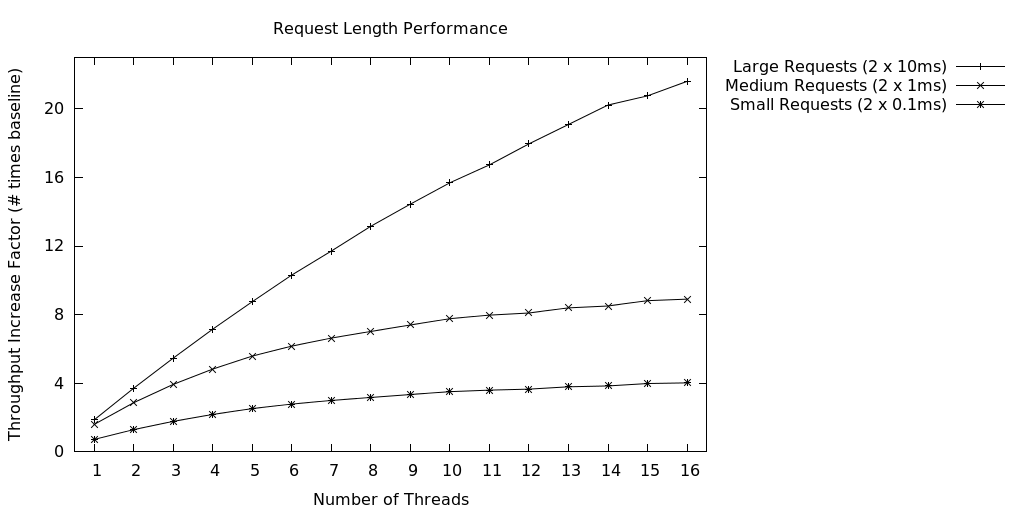
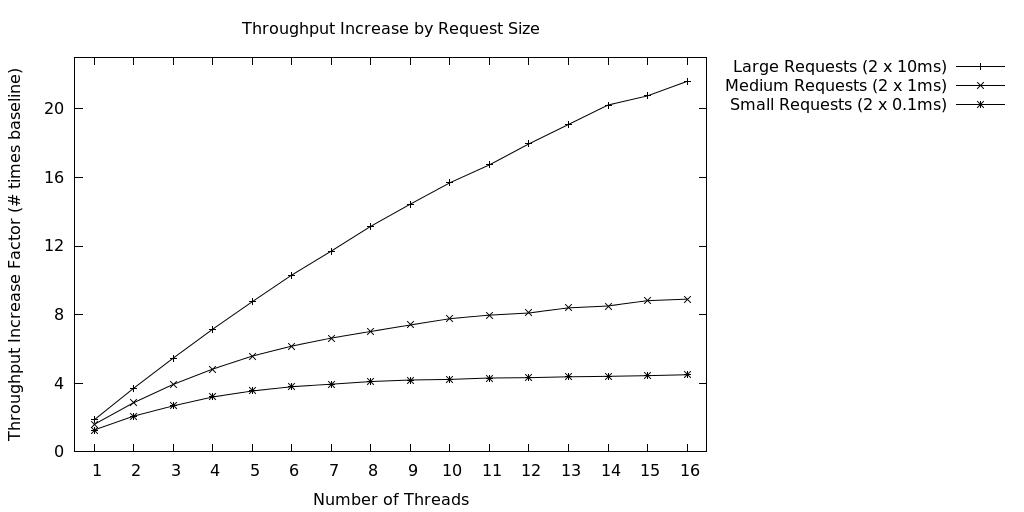
Initial graphs done, work on bibliography, more proofreading

Changed region(s): [[0.0938, 0.7188, 0.6875, 0.875], [0.2188, 0.0312, 0.5312, 0.0938]]

diff --git a/main.tex b/main.tex
@@ -18,26 +18,26 @@
 
 \chapter{Introduction}\label{Introduction}
 Computing systems today are rarely self-contained units. 
-The desire for more levels of abstraction and cleaner separation of responsibilities has led to systems being modularized into services that must communicate and work together to accomplish tasks. 
+The desire for more levels of abstraction and cleaner separations of responsibilities has led to systems being modularized into services that must communicate and work together to accomplish tasks. 
 Not only is this separation observed within single systems, but also in systems that interact with external services such as cloud based storage or computing providers. 
-In this paper we will present a way to build these systems in a highly available way by leveraging existing techniques such as the replicated state machine abstraction.
+In this paper we will present a way to build these systems in a highly available and fault tolerant way by building upon existing techniques such as the replicated state machine abstraction.
 
-Unfortunately, the replicated state machine abstraction as it exists today is not immediately fit for this multiple service environment. 
-Previous work on the RSM abstraction has focused on the client-server model, where the RSM behaves as a single-correct-server from the perspective of the client and nothing else. 
+Unfortunately, the replicated state machine abstraction as it exists today is not immediately fit for this communicating service environment. 
+Previous work on the RSM abstraction has focused on the client-server model, where the RSM behaves as a single-correct-server from the perspective of the clients making requests. 
 This behavior does not allow these systems to communicate with other services because doing so could expose the intermediate state of the system which is not guaranteed to be consistent in this abstraction.
 
 Aside from consistency issues, a traditional RSM abstraction would also suffer from fundamental performance deficiencies in this environment. 
-Most replication protocols rely on the sequential execution of commands to guarantee that replicas operate in a deterministic manner. 
+Many replication protocols rely on the sequential execution of commands to guarantee that replicas operate in a deterministic manner \cite{practicalBFT, upRight, hq, paxos}. 
 Not only does sequential execution do a poor job of leveraging abundantly available multicore machines, it also requires that a system in this environment remain idle while waiting for the response from a command issued to another service.
 
 In this paper, we will present a technique to adapt the replicated state machine abstraction to the environment described above. 
-We will first leverage recent work on multi-threaded speculative execution to allow our system to better utilize the multicore nature of machines today. 
+We will first leverage speculative execution \cite{eve, zyz} to allow our system to be multi-threaded and therefore better utilize the multicore nature of machines today. 
 In addition, we will show how to pipeline a system using speculative execution to mitigate the blocking of the system while waiting for the response of communications it may perform. 
 This work builds on operations originally made by the Laboratory for Advanced Systems Research at UT and was a joint effort between myself and Jim Given. 
 I highly recommend reading Jim’s thesis on this same work to get the complete understanding of this project.
 
 The rest of this paper is structured as follows. 
-Chapter \ref{Background} will provide a comprehensive background on the replicated state machine abstraction and the Eve system, which pioneered the use of speculative execution within a RSM. 
+Chapter \ref{Background} will provide a comprehensive background on the replicated state machine abstraction and the Eve system, which pioneered the use of multi-threaded speculative execution within a RSM. 
 Chapter \ref{Adam} will introduce Adam, a system to provide high availability in an environment with services that communicate not only with clients, but also with other services. 
 Chapter \ref{AdamDesign} will describe at a high level the design and benefits of pipelining in Adam. 
 Chapter \ref{AdamImplementation} will explore our implementation of Adam in detail along with the correctness guarantees Adam provides. 
@@ -63,7 +63,7 @@ For a weaker failure model, one only needs to either increase the number of repl
 In order to provide correctness, the requirement of SMR is that the observable state (including but not limited to the outputs) of each state machine must always be the same across all replicas. 
 This is simply because if all replicas have the same observable state, any replica on its own could communicate with clients if another crashed.
 
-To provide this correctness requirement, SMR has traditionally been implemented by only allowing sequential execution of commands. 
+To provide this correctness requirement, SMR has traditionally been implemented by only allowing sequential execution of commands \cite{schneider}. 
 The reason behind this is that if commands are first ordered the same way on each replica, and are then executed one at a time in this deterministic way, then all replicas will arrive at the same state. 
 This is easy to see because each state machine simply follows the exact same state transitions in the same order. 
 This design is referred to as the agree-execute approach, and has been applied in a wide range of systems including the original Paxos protocol.
@@ -71,7 +71,7 @@ This design is referred to as the agree-execute approach, and has been applied i
 Sequential execution was an acceptable option when SMR was first introduced since single core performance was rapidly increasing. 
 Now that the world has instead shifted to increasing the amount of parallelism to improve performance, we find that sequential execution is a serious limitation. 
 If we tried to naively relax this sequential execution restriction and run commands using multiple threads, there would be no guarantee that the replicas would arrive in the same final state since the commands could be interleaved across the threads. 
-In the next section, we will see one way that we can still provide the replicated state machine abstraction without the need for this sequential execution restriction. 
+In the next section, we will see one way that we can still provide the replicated state machine abstraction without sequential execution by using speculative execution instead. 
  
 
 \section{Eve: Execute-Verify Replication}
@@ -79,7 +79,7 @@ In the next section, we will see one way that we can still provide the replicate
 In the previous section, we explored how the majority of SMR implementations relied on the agree-execute architecture to ensure that replicas converged to the same ending state. 
 This approach guarantees convergence through determinism and sequential execution. 
 One observation that can be made about these approaches is that they have effectively reduced the actual safety requirement of SMR (that the observable state of each state machine is the same across all replicas) to the problem of guaranteeing that all replicas agree on an order of commands to execute. 
-Eve is a system that was developed at the University of Texas at Austin that uses the real safety requirement of SMR to enable multi-threaded execution.
+Eve is a system that was developed at the University of Texas at Austin that uses the real safety requirement of SMR to enable multi-threaded execution \cite{eve, manosThesis}.
 
 Eve uses what is referred to as speculative execution in a way that provides the safety guarantee of SMR while still providing liveness to form a correct replicated state machine abstraction. 
 In Eve, replicas are given a set, or batch, of requests to execute from the primary, however they are not required to agree on an order in which to execute them. 
@@ -145,13 +145,13 @@ In Remus, the primary replica executes requests with multiple threads and then t
 This approach, referred to as passive replication, both requires considerably more bandwidth (due to the transfer of full states) and does not protect against commission failures, while Eve does. 
 Eve was shown to outperform Remus by a factor of 4.7x while using orders of magnitude less network bandwidth in the authors' tests.
 
-\chapter{Adam: State Machine Replication with Interacting Services}\label{Adam}
+\chapter{Adam: State Machine Replication with Communicating Services}\label{Adam}
 
 In the last chapter we saw that the replicated state machine abstraction can be used with in a parallel environment with serious performance improvements in terms of request throughput. 
 Systems today are rarely well described by the simple client-server model.
 Instead, most services need to interact with other services while processing a request from a client. 
 
-For example, if a client visits the website Dropbox.com, the server handling the client's request needs to make what we will refer to as a ``nested request'' to a separate service. This nested request functions to retrieve the names of the client's files, before sending the contents of the webpage back to the client. Figure \ref{anatomy} shows the anatomy of a client request that we will be considering for the for the rest of this paper. In the figure, you can think of the local computation as the time that the webserver spends rendering the HTML to return and the remote computation as the remote service loading the user's files for this example.
+For example, if a client visits a cloud file storage website \cite{dropbox}, the server handling the client's request needs to make what we will refer to as a ``nested request'' to a separate service. This nested request functions to retrieve the names of the client's files, before sending the contents of the webpage back to the client. Figure \ref{anatomy} shows the anatomy of a client request that we will be considering for the for the rest of this paper. In the figure, you can think of the local computation as the time that the webserver spends rendering the HTML to return and the remote computation as the remote service loading the user's files for this example.
 
 \begin{figure}[h]
 \centering
@@ -162,9 +162,19 @@ For example, if a client visits the website Dropbox.com, the server handling the
 Eve's approach to multi-threaded SMR successfully leverages the multicore nature of today's machines, but it is not immediately clear how to extend such a system to allow for replicated services to communicate. 
 In this chapter, we will explore the previous work that was performed to convert the Eve system to work in this new environment: one where servers not only expose their states to clients, but also to other services through nested requests.
 
+\section{System Model}
+We will assume a system model similar to that of Eve. 
+Adam requires periods of synchrony in an asynchronous environment to guarantee liveness. 
+In these periods of synchrony we will assume that messages sent between two correct processes are delivered within a bounded time. 
+Outside of these periods, Adam tolerates arbitrary network delays and lost messages without violating safety.
+
+The Adam prototypes described in this paper can be independently configured with their own fault tolerance parameters. 
+Just as in the UpRight system \cite{upRight}, Adam is guaranteed to be able to respond to clients in the presence of at most $u$ failures (commission or omission) and is guaranteed that any response sent to a correct client in the presence of up to $r$ commission failures and any number of omission failures. 
+Like in Eve and previous work on Adam, we will assume that no failures in the system can break cryptographic primitives and thereby be able to forge a correct node's MAC \cite{eve, manosThesis}.
+
 \section{Initial Approaches}
 
-Before describing Adam, it is important to understand why speculative execution approaches such as Eve do not work in this environment with communicated services. 
+Before describing Adam, it is important to understand why speculative execution approaches such as Eve do not work in this environment with communicating services. 
 Consider a service $A$ that is using Eve and is processing client requests. 
 While processing some of the client requests service $A$ receives, it must make a call to service $B$. 
 Now suppose that due to the speculative nature of Eve, too many replicas diverge while processing this client request. In Eve, this causes all replicas to rollback to their state before they began processing the client requests and try again in a sequential manner. 
@@ -236,13 +246,13 @@ In figure \ref{seqpipe} you can see the execution of $12$ client requests in a s
 \section{Initial Results}
 
 The initial findings in terms of the performance gain that applying speculative execution had over a naive sequential implementation were quite promising. 
-In Kapritsos' doctoral defense, he reported that the throughput of this speculative executing Adam system steadily increased with the number of cores according to the benchmarks that he ran. 
+In Kapritsos' doctoral defense, he reported that the throughput of this speculative executing Adam system steadily increased with the number of cores according to the benchmarks that he ran \cite{manosThesis}. 
 Even though the throughput increased, it did not seem to be scaling particularly linearly with the number of cores. 
-Servers with 16 cores running 16 execution threads in this implementation of Adam only had about 4x the throughput of the same servers running with a single thread each.
+Servers with 16 cores running 16 execution threads in this implementation of Adam only had about 4 times the throughput of the same servers running with a single thread each.
 
 The single-threaded pipelining technique described above also showed great potential. 
-For very short client requests (0.1ms each), the service managed to achieve even more than the expected 2x performance gain, probably due to the remote service batching requests creating what acted in practice like an additional pipeline stage. 
-For requests that took longer to process (1-10ms each) however, the system successfully achieved an approximately 2x throughput increase due to the 2 stage nature of the pipeline: the first being the local computation and the second being the computation on the remote service.
+For very short client requests (0.1ms each), the service managed to achieve even more than the expected double throughput gain, probably due to the remote service batching requests creating what acted in practice like an additional pipeline stage. 
+For requests that took longer to process (1-10ms each) however, the system successfully achieved an approximately double throughput increase due to the two stage nature of the pipeline: the first being the local computation and the second being the computation on the remote service.
 
 \chapter{Multi-Threaded Pipelining in Adam}\label{AdamDesign}
 
@@ -265,21 +275,21 @@ In order to better understand our approach to combining these techniques, let us
 Figure \ref{parpipe} shows what an execution of $12$ client requests would look like in our multi-threaded and pipelined system with two groups of two execution threads each. 
 Notice that only one group is performing local computation at a time (the dark rectangles) but multiple threads within a group are running simultaneously.
 Also notice that the full execution of all $12$ client requests requires only seven of the same time slices used in the other diagrams.
-This abstraction does not however effect the total number of checkpoints that must be performed (seven) from the original multi-threaded approach.
+This abstraction does not however affect the total number of checkpoints that must be performed (seven) from the original multi-threaded approach.
 
 At a very high level, our approach was to adapt the existing single-threaded pipelining code to have it schedule groups of threads to run in the pipeline instead of a single thread. 
 To manage each group of threads, we adapted the existing multi-threaded non-pipelined Adam code to allow it to behave within this pipelined environment. 
-The following chapter will explain at length the steps we took to convert the existing code we started with, as well as the new code we had to write to make this idea a reality.
+This chapter will explain at length the steps we took to convert the existing code we started with, as well as the new code we had to write to make this idea a reality.
 
 \section{Theoretical Benefits}
 
 By combining both pipelining and multi-threading, we expected our speedups over a naive replicated state machine in this system model to both scale linearly with the number of threads we were using as well as double because of the two stage pipeline. 
-In total this meant that with the 16 core machines we had available to test with, we hoped to see approximately a 32x throughput improvement in our microbenchmarks. 
+In total this meant that with the 16 core machines we had available to test with, we hoped to see approximately 32 times the throughput of a naive sequential implementation in our microbenchmarks. 
 
-The figure \ref{parpipe} shows the improvement that we would general expect by using just two execution cores (because only two threads are ever running locally at a time.
-We would expect a 2x throughput increase from using two threads concurrently as well as approximately a 2x throughput increase from the two stage pipeline for about a 4x improvement overall.
+The figure \ref{parpipe} is an example the improvement that we would general expect by using just two execution cores (because only two threads are ever running locally at a time) one a batch of $12$ request.
+We would expect a doubled throughput increase from using two threads concurrently as well as approximately a doubled throughput increase from the two stage pipeline for about a quadrupled throughput amount overall.
 
-Visually, you can see this exemplified in the number of slices in each diagram. 
+Visually, you can see this exemplified by the number of time slices in each diagram of this paper.
 The naive sequential implementation (Figure \ref{NaiveSequential}) required $24$ time slices while the execution in our system required only $7$.
 
 \begin{align*}
@@ -287,7 +297,7 @@ The naive sequential implementation (Figure \ref{NaiveSequential}) required $24$
 \end{align*}
 
 This number actually converges to $4$ as the number of requests run in each batch increases to infinity.
-A formal proof of this fact is available in Jim Given's thesis but conceptually you can see that the larger the number of requests that each thread must execute, the less that the ``unmatched'' slices at the beginning and the end of the batch matter. 
+A formal proof of this fact is available in Jim Given's thesis but conceptually you can see that the larger the number of requests that each thread must execute, the less that the ``unmatched'' slices at the beginning and the end of the batch contribute. 
 If the diagrams instead showed batches of $24$ requests each, the naive implementation would require $48$ time slices ($24$ requests $\cdot \ 2$ slices / request $=\ 48$).
 Our pipelined implementation would require only $13$ slices: $24$ requests / $4$ threads $ = 6$ requests / thread $\cdot \ 2$ slices / request $ = 12$ slices $ + 1$ extra slice of time for the first two threads at the end of the batch. 
 
@@ -304,8 +314,8 @@ Before explaining the work that we did to create a pipelined SMR system that use
 
 \subsection{Existing Multi-Threaded Adam Implementation}\label{BM}
 
-The existing multi-threaded Adam implementation we started with was a modification to the existing Eve code that allowed the code to perform nested requests. 
-Some of the core changes involved the use of Apache's Commons Javaflow library to easily allow execution threads to rollback their state to a checkpoint, even if they are currently in the middle of executing. 
+The existing multi-threaded Adam implementation we started with was a modification to the existing Eve \cite{eve} code that allowed the code to perform nested requests. 
+Some of the core changes involved the use of Apache's Commons Javaflow library \cite{javaflow} to easily allow execution threads to rollback their state to a checkpoint, even if they are currently in the middle of executing. 
 The other modifications to Eve involved adding support for multiple checkpoints taken per batch, one after every time the execution threads ``hit a wall'', meaning that all currently active execution threads were either finished with the entire batch of requests or were ready to make a nested request.
 
 Execution threads were controlled in this implementation by the Batch Manager (BM) which handled the logic of making sure all threads had ``hit a wall'' and initiated the checkpoint operation for each execution thread. 
@@ -314,7 +324,7 @@ When we received the code however, this work was largely not finished as the exi
 
 \subsection{Sequential Pipeline Manager}\label{SPM}
 
-The Sequential Pipeline Manager (SPM) was first implemented by Manos Kapritsos to demonstrate that the single-threaded pipelining approach had promise in this system model. 
+The Sequential Pipeline Manager (SPM) was first implemented by Manos to demonstrate that the single-threaded pipelining approach had promise in this system model. 
 The SPM in particular was the part of the system that controlled what execution thread was currently running and handled scheduling the next thread when the running thread desired to yield.
 This meant that the SPM was also responsible for enforcing the condition that only one execution was running at any point in time and that all execution was deterministic.
 This code was very straightforward but it served as the inspiration for the pipeline manager that we built later to schedule groups of threads.
@@ -403,13 +413,13 @@ If it is the later, rollback is trivial, we simply must throw away all work perf
 This deterministic execution can even be performed in a sequential pipelined manner to achieve better performance than a naive sequential approach.
 
 If instead we rollback to right before the threads in a group make a nested request, our system must restore the state of all execution threads to the state they had before making these requests and switch into a sequential deterministic mode to ensure progress and convergence. 
-We use Apache's Commons Javaflow library, specifically the Continuations objects in this library, to keep track of the stack of each execution thread.
+We use Apache's Commons Javaflow library \cite{javaflow}, specifically the Continuations objects in this library, to keep track of the stack of each execution thread.
 This allows us to restore this stack and guarantee that all execution threads are in the exact state they were in right before they made their nested request on each replica. 
 These Continuation objects with the stack of each thread are stored in the same Merkle tree data structure that Eve used which allows the replicas to make sure that they also have the same recorded stacks for each execution thread whenever a verification is performed. 
 This also allows replicas to receive continuations in a state transfer and immediately start the execution threads at the same point in the execution. 
 
 After performing a rollback in the non-trivial case, the threads in the now current group will either re-execute their nested request (if a response was never received) or will read the result from a cache if a response was received.
-Since we know that all execution threads were in the same state before making this request, we know that the request that each thread makes must be exactly the same, thereby eliminating the issue that Eve has in this environment with making requests that can never be repeated after rolling back.
+Since we know that all execution threads were in the same state before making this request, we know that the request that each thread makes must be exactly the same, thereby eliminating the issue that Eve has in this environment with making requests that might never be repeated after rolling back.
 
 \section{Future Work}
 
@@ -469,7 +479,7 @@ This could be achieved through better detection of new objects in the replica th
 
 We also compared our Adam implementation head to head with the previous two approaches described in Chapter \ref{Adam} as well as a naive sequential implementation. 
 Figure \ref{head2head} shows latency throughput graphs for our implementation running with three groups of eight threads each in a fully replicated environment. 
-We compare our implementation in this graph to the multithreaded but non-pipelined approach running with 8 threads, and with the sequential-pipelined approach running with three threads (which is equivalent to our implementation using three groups) as well as the naive sequential implementation. 
+We compare our implementation in this graph to the multi-threaded but non-pipelined approach running with 8 threads, and with the sequential-pipelined approach running with three threads (which is equivalent to our implementation using three groups) as well as the naive sequential implementation. 
 
 It can be seen from the graph that the naive sequential implementation achieves nearly $50$ requests per second which is the theoretical maximum throughput for $20$ms requests ($10$ms for the local and $10$ms remote computation). 
 The sequential pipelined approach approaches twice the performance of the naive implementation, once again due to the fact that the pipeline is of depth two (the local service and the remote service). 
@@ -492,13 +502,17 @@ This work built off of existing work from the University of Texas at Austin Labo
 
 \chapter{Conclusion}\label{Conclusion}
 
-Traditional approaches to state machine replication have used deterministic single-threaded execution to guarantee that replicas agree on the same final state. Although these approaches are straightforward, they fail to take advantage of the multicore nature of today's machines. In addition, these approaches are ill-suited to an environment with communicating services. This is because communication with other services requires a sequential execution thread to block while waiting for a response. 
-Newer techniques such as the Eve protocol \cite{EvePaper} have leveraged speculative execution to allow for the replicated state machine abstraction to be multi-threaded.
+Traditional approaches to state machine replication have used deterministic single-threaded execution to guarantee that replicas agree on the same final state. Although these approaches are straightforward, they fail to take advantage of the multicore nature of today's machines. 
+In addition, these approaches are ill-suited to an environment with communicating services. This is because communication with other services requires a sequential execution thread to block while waiting for a response. 
+
+Newer techniques such as the Eve protocol \cite{eve} have leveraged speculative execution to allow for the replicated state machine abstraction to be multi-threaded.
 Even systems like Eve however do not immediately perform well in an environment with communicating services and known pipelining techniques can be effectively used to improve performance.
 We have presented a novel approach to providing the replicated state machine abstraction in an environment with communicating services that leverages both the multicore nature of today's machines and pipelining techniques to improve resource utilization. 
 
-% Have a paragraph with final results or something here
-We found through the use of microbenchmarks that our design and implementation allows a workload of heavy requests to scale up to 21.8x the throughput of a naive sequential implementation in a non-replicated setting with 16 core machines, or up to 13.0x the throughput in a replicated setting with 8 cores per execution server.
+We found through the use of microbenchmarks that our design and implementation allows a workload of heavy requests to scale over $21$ times the throughput of a naive sequential implementation in a non-replicated setting with 16 core machines.
+In a fully replicated setting tolerating up to one replica failure, we achieved a over $12$ times the throughput in a with just 8 cores per execution server.
+Although results on smaller request sizes do not scale as well with the number of cores in the system, we believe that the issues with our system are implementation specific and are exacerbated by our lack of access to a cluster large enough to saturate our system with client requests.
+We have demonstrated that speculative execution based multithreading techniques can be used in this environment to scale the system with the number of cores of the execution replicas and that pipelining can be applied to these multi-threaded techniques to nearly double the performance.
 
 \bibliographystyle{unsrt}
 \bibliography{bib}
